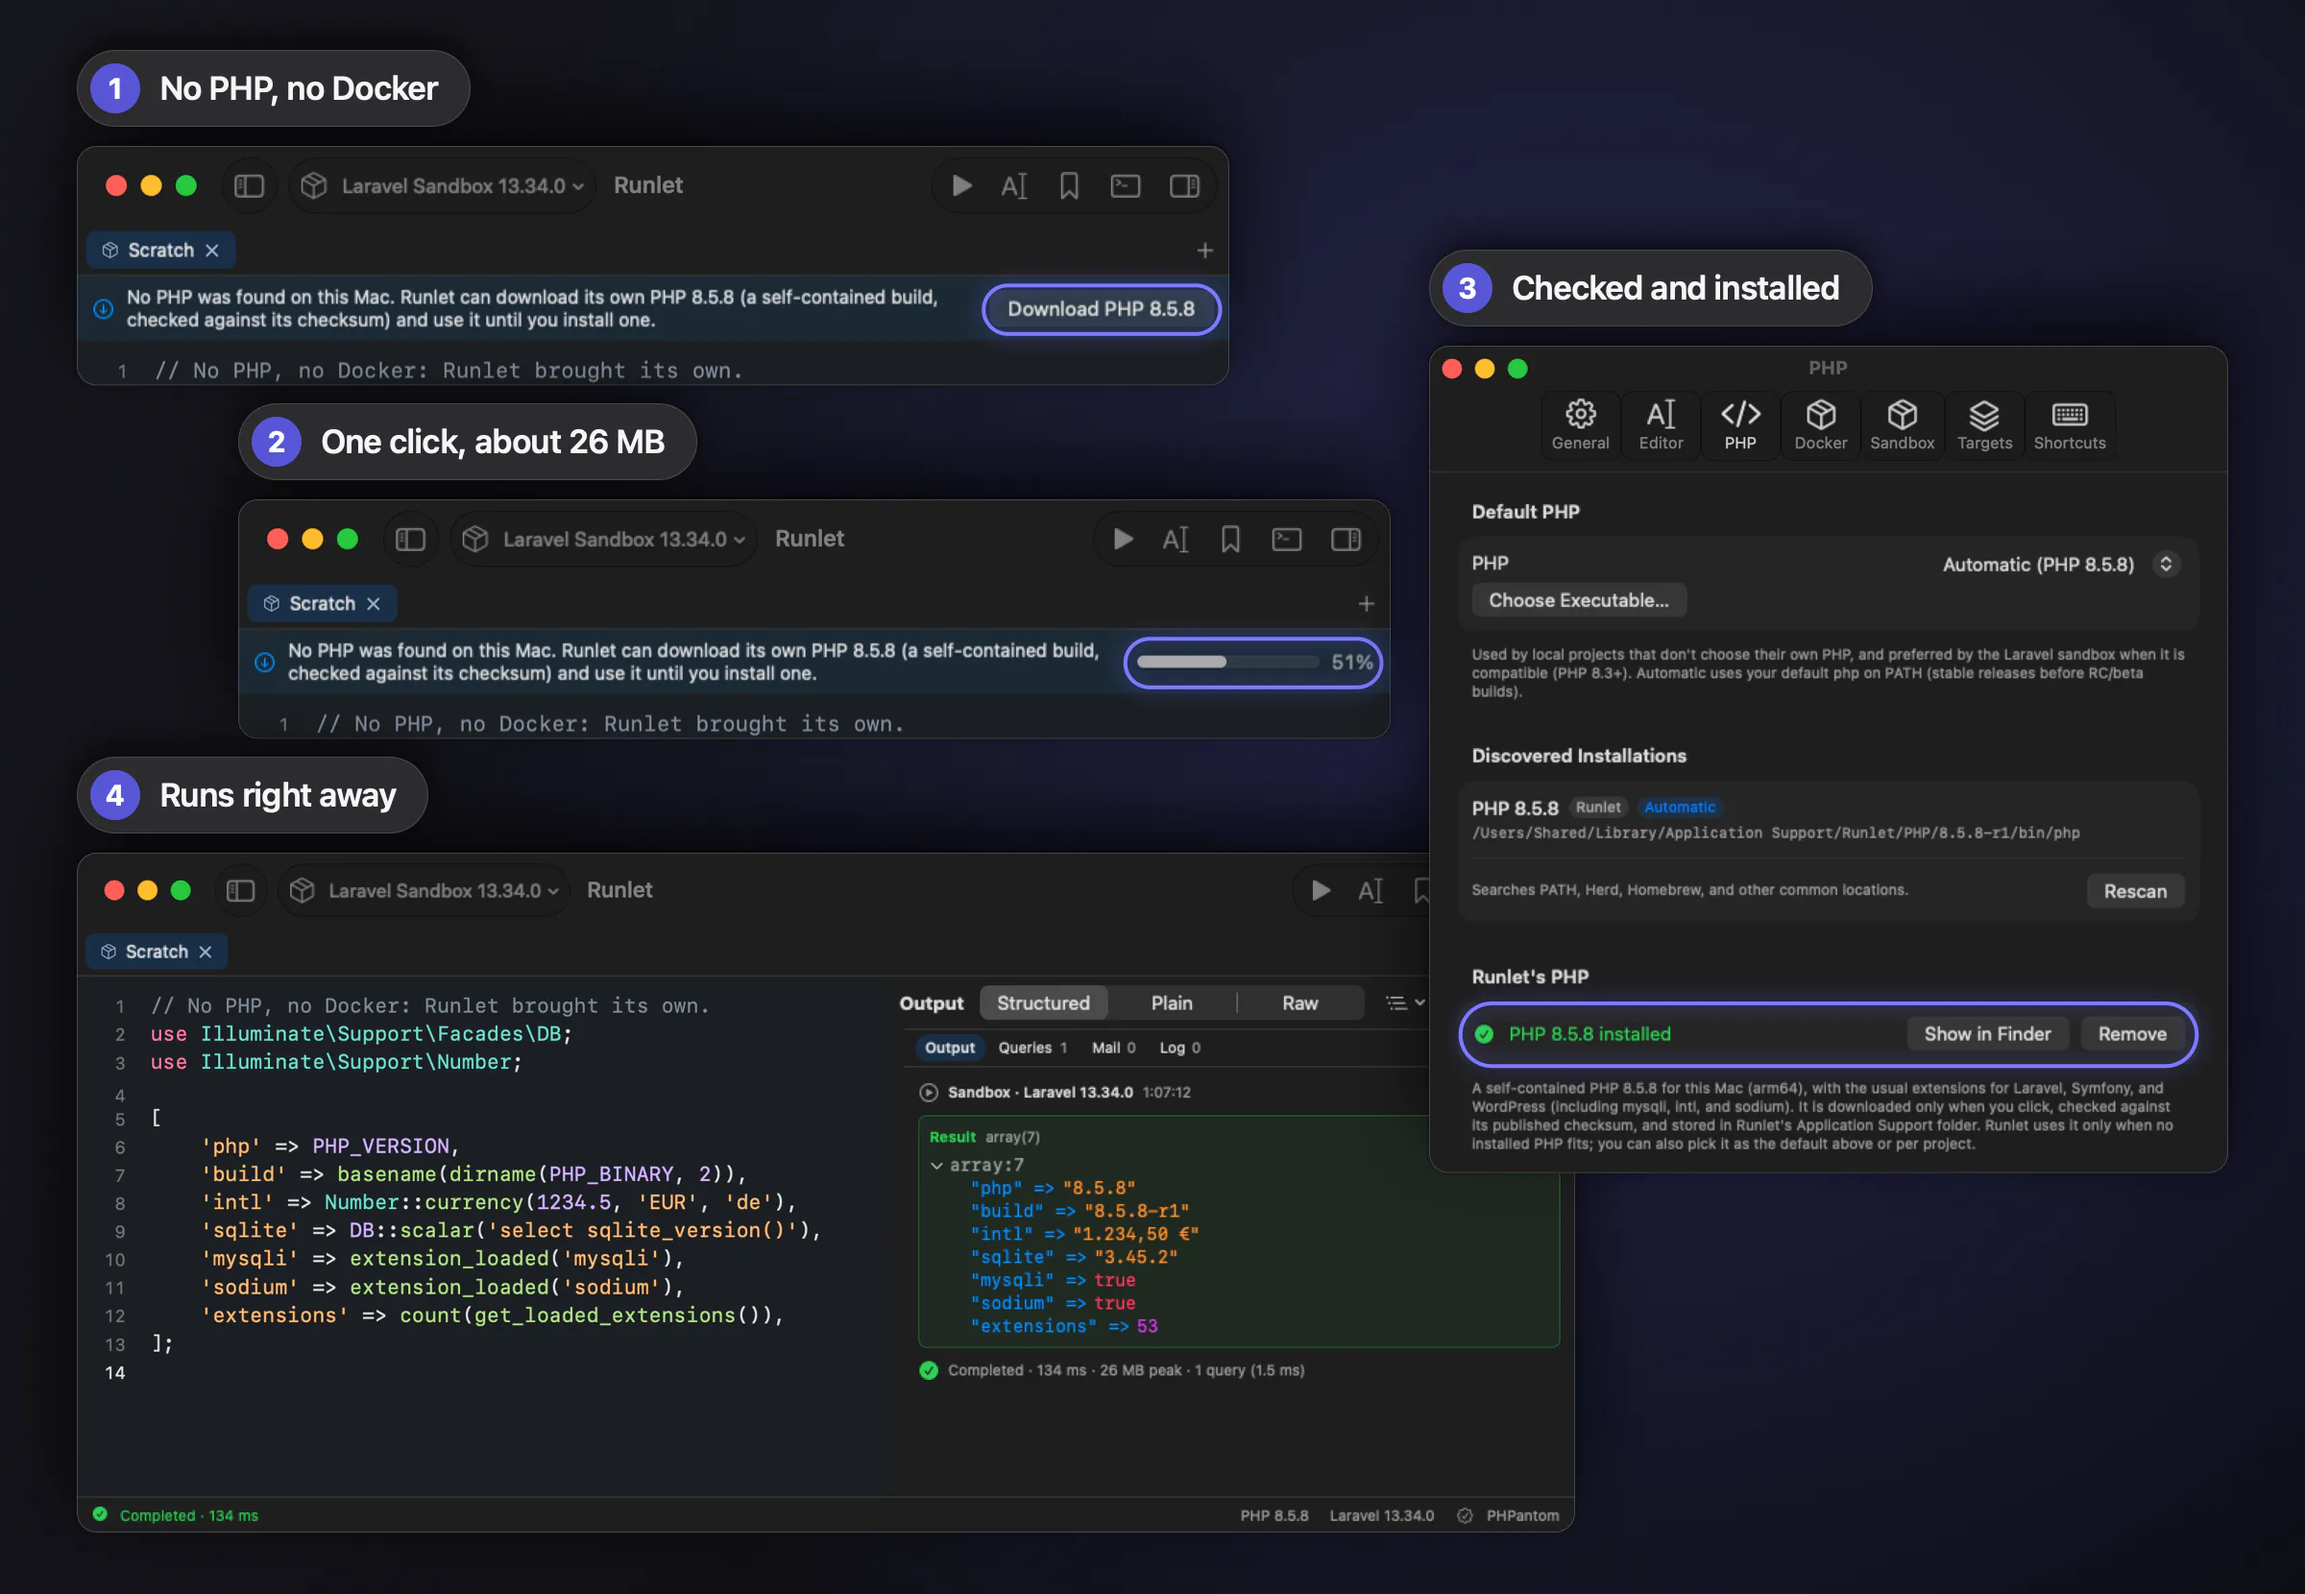
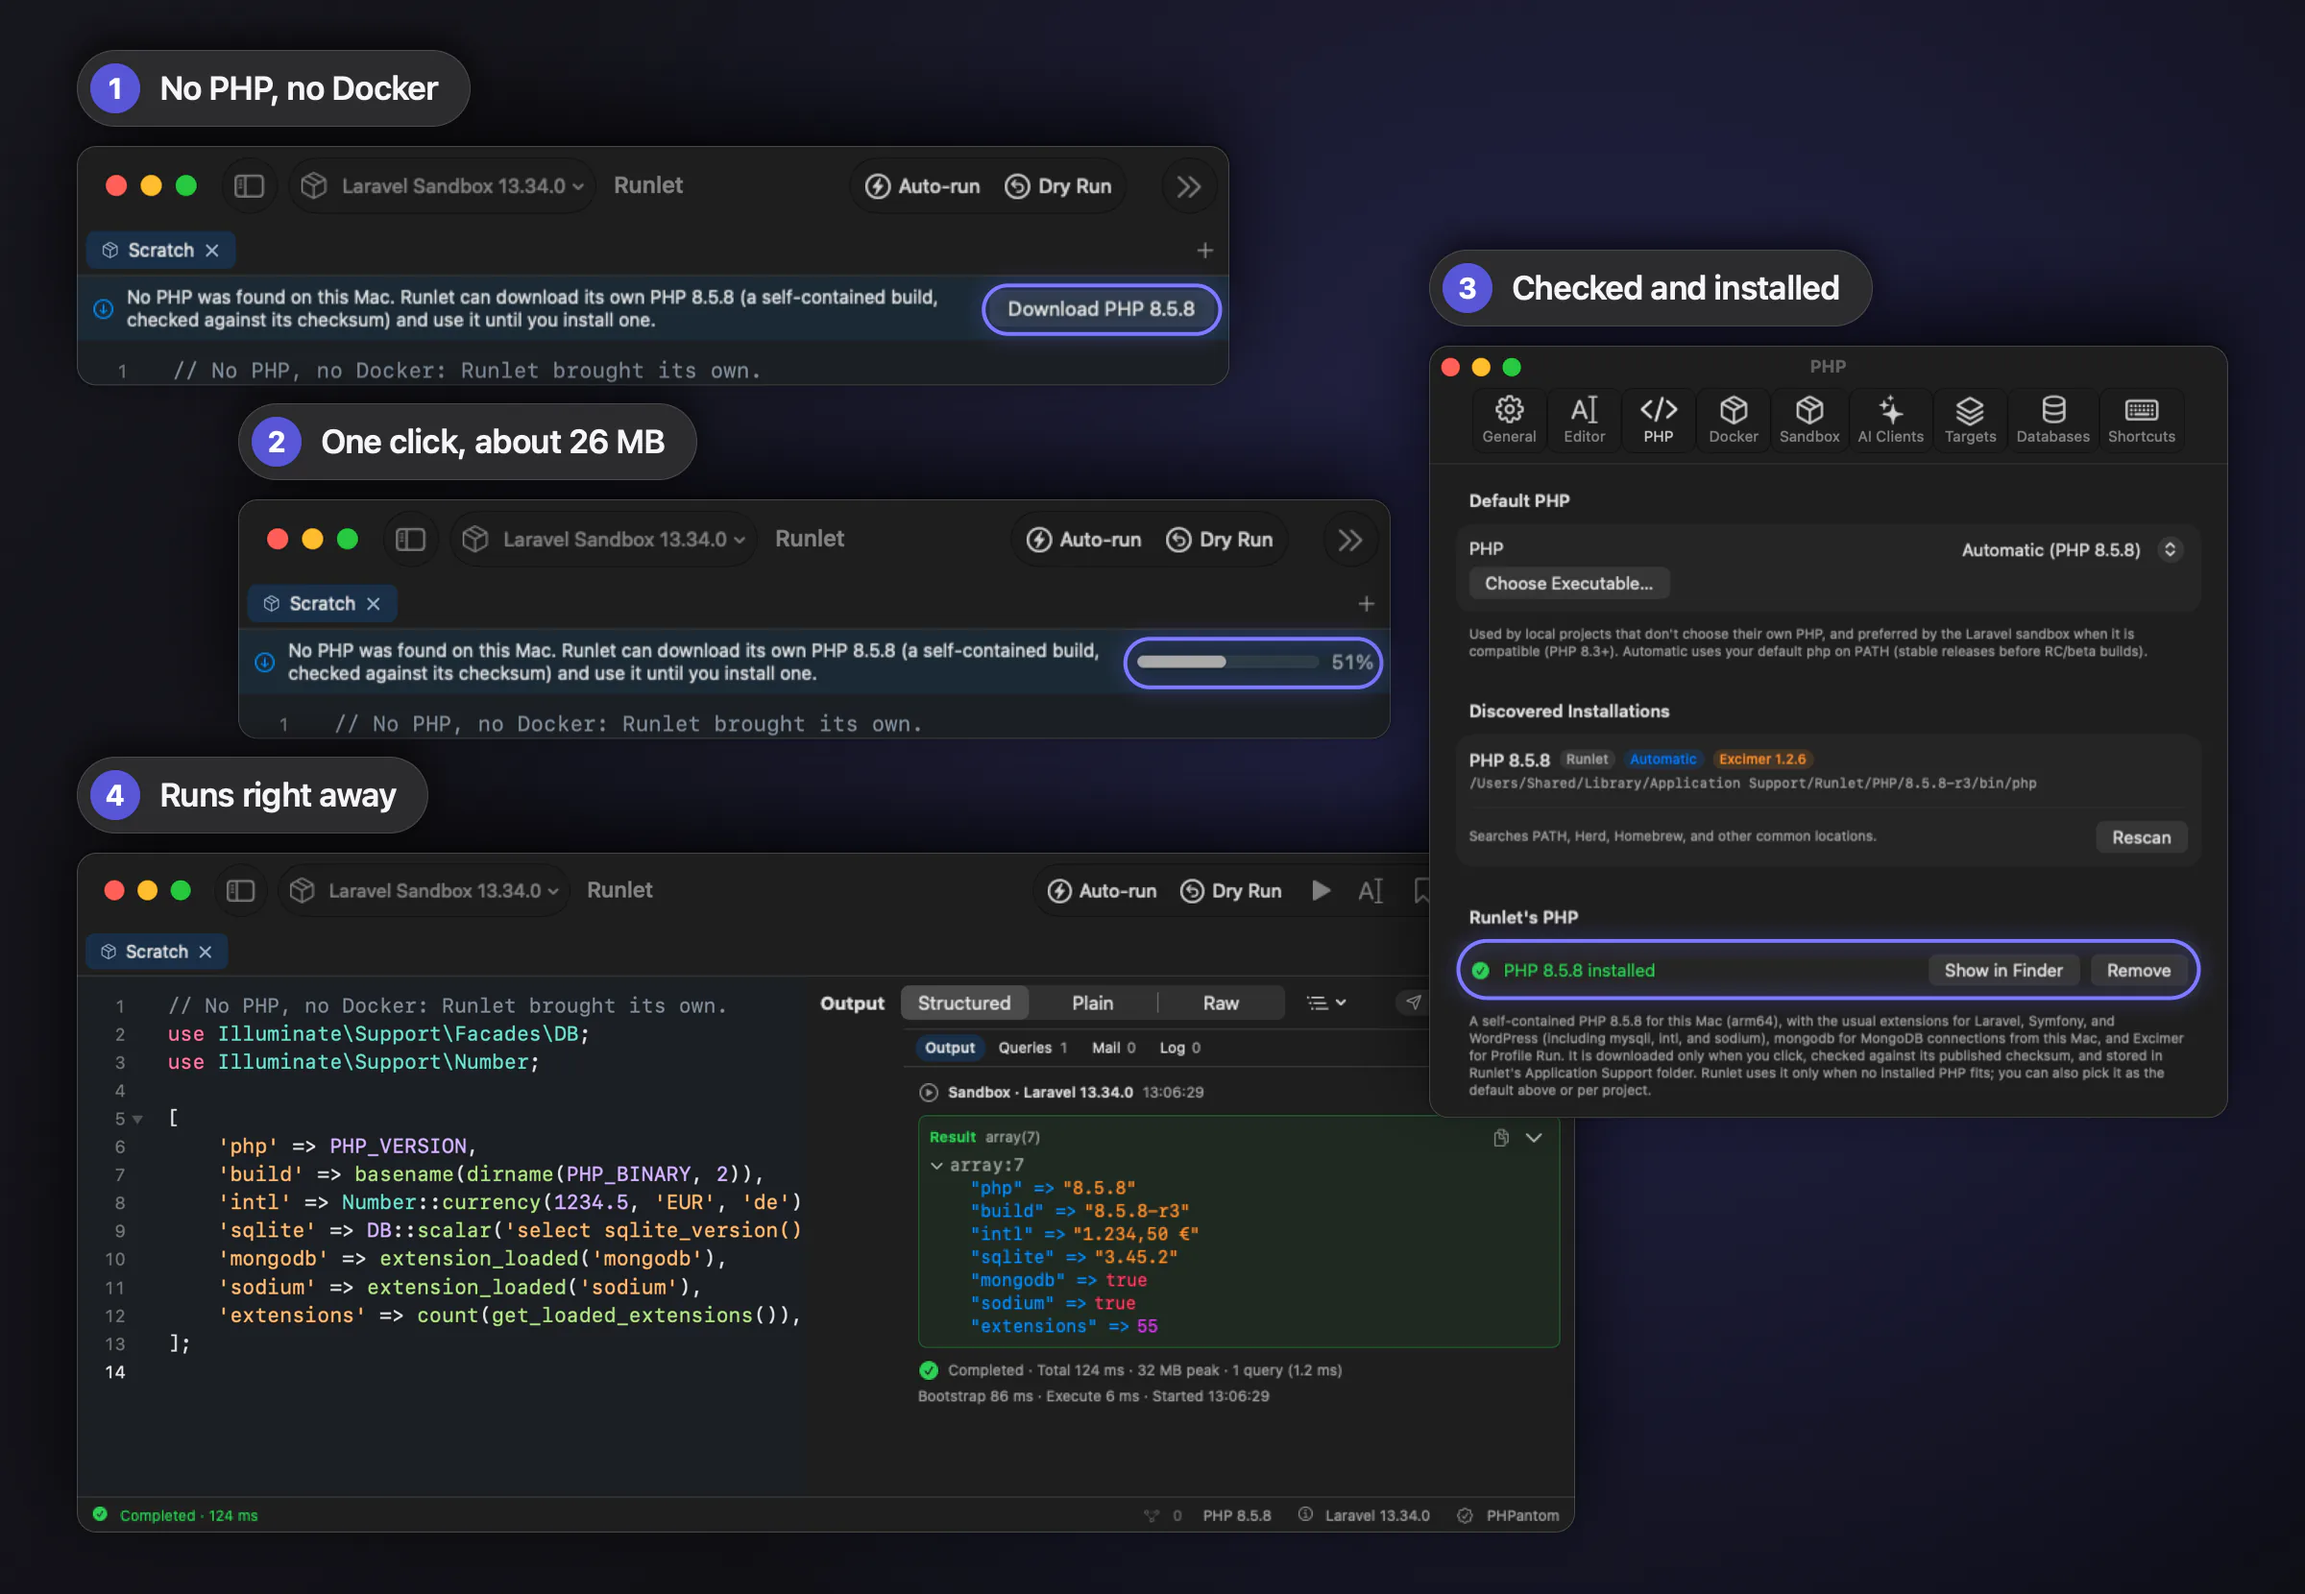
Website: retake the own-PHP collage with build r3 (#246)
shoot-own-php.sh downloads php-8.5.8-r3, the build the app pins; the run
shows mongodb loaded, inlay hints are off so the snippet fits, and the
collage crops and rings the wider Settings window.

diff --git a/website/index.html b/website/index.html
@@ -102,7 +102,7 @@
         <figure class="collage reveal">
           <picture>
             <source media="(prefers-color-scheme: dark)" srcset="assets/shots/own-php-dark-1200.webp 1200w, assets/shots/own-php-dark-2400.webp 2400w" sizes="(min-width: 1260px) 1200px, 94vw">
-            <img src="assets/shots/own-php-light-1200.webp" srcset="assets/shots/own-php-light-1200.webp 1200w, assets/shots/own-php-light-2400.webp 2400w" sizes="(min-width: 1260px) 1200px, 94vw" width="1200" height="830" loading="lazy" decoding="async" alt="Four numbered steps in Runlet on a Mac without PHP or Docker. 1, No PHP, no Docker: a banner above the editor says no PHP was found and offers a Download PHP 8.5.8 button. 2, One click, about 26 MB: the same banner shows the download at 52 percent. 3, Checked and installed: Settings, PHP lists PHP 8.5.8 from Runlet as the automatic choice and says PHP 8.5.8 installed. 4, Runs right away: a Laravel sandbox tab runs a snippet that returns PHP 8.5.8, Runlet's build 8.5.8-r1, a price formatted in euros with intl, the SQLite version, mysqli and sodium loaded, and 53 extensions.">
+            <img src="assets/shots/own-php-light-1200.webp" srcset="assets/shots/own-php-light-1200.webp 1200w, assets/shots/own-php-light-2400.webp 2400w" sizes="(min-width: 1260px) 1200px, 94vw" width="1200" height="830" loading="lazy" decoding="async" alt="Four numbered steps in Runlet on a Mac without PHP or Docker. 1, No PHP, no Docker: a banner above the editor says no PHP was found and offers a Download PHP 8.5.8 button. 2, One click, about 26 MB: the same banner shows the download at 52 percent. 3, Checked and installed: Settings, PHP lists PHP 8.5.8 from Runlet as the automatic choice and says PHP 8.5.8 installed. 4, Runs right away: a Laravel sandbox tab runs a snippet that returns PHP 8.5.8, Runlet's build 8.5.8-r3, a price formatted in euros with intl, the SQLite version, mongodb and sodium loaded, and 55 extensions.">
           </picture>
         </figure>
       </div>

diff --git a/scripts/website-screenshots/own-php-collage.swift b/scripts/website-screenshots/own-php-collage.swift
@@ -134,7 +134,7 @@ func ring(_ rect: CGRect, crop: CGRect, card: CGRect) {
 
 // 1 and 2: the banner before and during the download, stacked top left; 4: the run, bottom
 // left; 3: Settings on the right, over the run's edge. Each caption sits just above its card.
-let settingsCrop = CGRect(x: 0, y: 0, width: 560, height: 580)
+let settingsCrop = CGRect(x: 0, y: 0, width: 600, height: 580)
 let runCrop = CGRect(origin: .zero, size: runSize)
 let firstCard = card(noPHP, crop: banner, at: CGPoint(x: 40, y: 76), width: 600)
 ring(CGRect(x: 598, y: 92, width: 156, height: 32), crop: banner, card: firstCard)
@@ -142,7 +142,7 @@ let secondCard = card(downloading, crop: banner, at: CGPoint(x: 124, y: 260), wi
 ring(CGRect(x: 585, y: 92, width: 169, height: 32), crop: banner, card: secondCard)
 let runCard = card(run, crop: runCrop, at: CGPoint(x: 40, y: 444), width: 780)
 let settingsCard = card(settings, crop: settingsCrop, at: CGPoint(x: 744, y: 180), width: 416)
-ring(CGRect(x: 22, y: 461, width: 516, height: 44), crop: settingsCrop, card: settingsCard)
+ring(CGRect(x: 22, y: 447, width: 556, height: 43), crop: settingsCrop, card: settingsCard)
 
 chip(1, "No PHP, no Docker", at: CGPoint(x: firstCard.minX, y: firstCard.minY - 30))
 chip(2, "One click, about 26 MB", at: CGPoint(x: secondCard.minX, y: secondCard.minY - 30))

diff --git a/scripts/website-screenshots/own-php-seed.py b/scripts/website-screenshots/own-php-seed.py
@@ -26,6 +26,7 @@ write("settings", {
     "fontSize": 14,
     "editorSplitRight": 0.55,
     "dockerExecutable": fake_docker,
+    "inlayHints": False,
 })
 
 CODE = """// No PHP, no Docker: Runlet brought its own.

diff --git a/CHANGELOG.md b/CHANGELOG.md
@@ -35,7 +35,9 @@ All notable changes to Runlet are recorded here. Dates use ISO format.
 - **Screenshots** retaken for the new window toolbar (Auto-run, Dry Run, the mail chip) and
   tabs, with SQL, Redis, and MongoDB tabs in the demo session; the Open Graph image follows the
   new hero. `shoot.sh` seeds a `shop_demo` database in the runlet-fixtures `mongo` container
-  (`seed-databases.sh`) and drops it at the end.
+  (`seed-databases.sh`) and drops it at the end. The own-PHP collage is retaken with build r3,
+  the one the app pins (`shoot-own-php.sh` downloaded r1, which no longer matches): its run
+  shows mongodb loaded, and the collage fits the wider Settings window.
 
 ### 2026-10-05 — Development: `scripts/test.sh -v` lists each test ([#244](https://github.com/filipac/runlet/issues/244))
 
